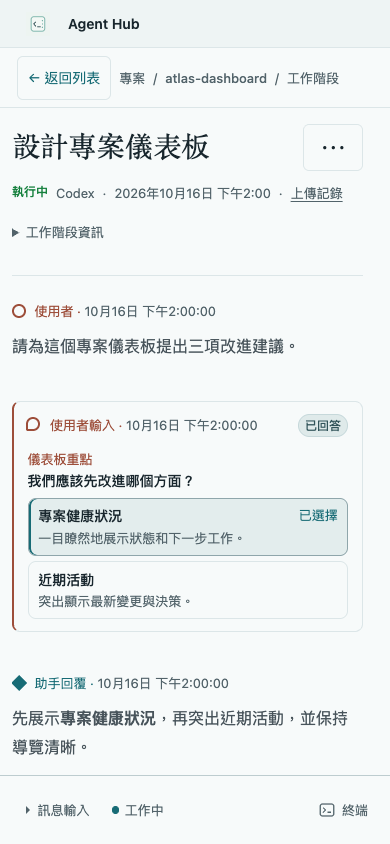
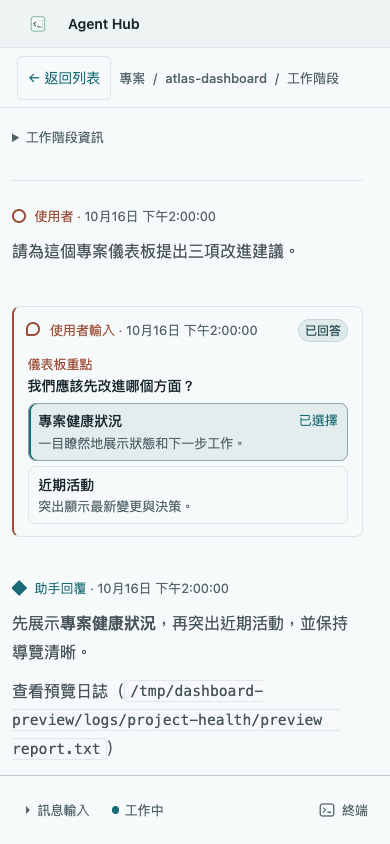
Show blocked Markdown link destinations in the session reader

diff --git a/tests/client/session-reader-components.test.tsx b/tests/client/session-reader-components.test.tsx
@@ -98,6 +98,94 @@ describe("session reader components", () => {
     expect(safeUrlTransform("file:///tmp/secret")).toBe("");
   });
 
+  it.each([null, "plan"] as const)(
+    "preserves blocked Markdown destinations in %s content",
+    (itemType) => {
+      const { container } = render(
+        <MessageItem
+          planOpen
+          item={{
+            kind: "message",
+            id: "blocked-links",
+            ordinal: 1,
+            timestamp: null,
+            role: "assistant",
+            phase: "response",
+            itemType,
+            markdown: [
+              "[**View log**](</tmp/my  log.txt>)",
+              "[View report][report]",
+              "[Empty]()",
+              "[./same](./same)",
+              "[**./formatted**](./formatted)",
+              "[](./unlabeled)",
+              "[Relative](../notes)",
+              "[Blocked](file:///tmp/secret)",
+              "",
+              "[REPORT]: <./my  report.txt>",
+            ].join("\n\n"),
+          }}
+        />,
+      );
+      expect(container.querySelector("a")).toBeNull();
+      expect(
+        [...container.querySelectorAll(".markdown-link-target")].map((node) => node.textContent),
+      ).toEqual([
+        "/tmp/my  log.txt",
+        "./my  report.txt",
+        "./unlabeled",
+        "../notes",
+        "file:///tmp/secret",
+      ]);
+      expect(screen.getByText("View log").parentElement?.textContent).toBe(
+        "View log（/tmp/my  log.txt）",
+      );
+      expect(screen.getByText("View report", { exact: false }).textContent).toBe(
+        "View report（./my  report.txt）",
+      );
+      expect(screen.getByText("Empty").textContent).toBe("Empty");
+      expect(screen.getByText("./same").parentElement?.textContent).toBe("./same");
+      const formattedLabel = screen.getByText("./formatted", { selector: "strong" });
+      expect(formattedLabel.parentElement?.textContent).toBe("./formatted");
+      expect(screen.getByText("./unlabeled").parentElement?.textContent).toBe("./unlabeled");
+    },
+  );
+
+  it("keeps encoded HTTPS URLs and node-scoped artifact links clickable", () => {
+    const pathname = window.location.pathname;
+    window.history.replaceState(null, "", "/nodes/remote/sessions/demo");
+    try {
+      const web = `/web/${"a".repeat(32)}/`;
+      const diff = "/diffs/aaaaaaaa-aaaa-4aaa-8aaa-aaaaaaaaaaaa";
+      render(
+        <MessageItem
+          item={{
+            kind: "message",
+            id: "allowed-links",
+            ordinal: 1,
+            timestamp: null,
+            role: "assistant",
+            phase: "response",
+            itemType: null,
+            markdown: `[HTTPS](<https://example.com/my  log>) [Web](${web}) [Diff](${diff})`,
+          }}
+        />,
+      );
+      for (const [name, href] of [
+        ["HTTPS", "https://example.com/my%20%20log"],
+        ["Web", `/nodes/remote${web}`],
+        ["Diff", `/nodes/remote${diff}`],
+      ]) {
+        const link = screen.getByRole("link", { name });
+        expect(link).toHaveAttribute("href", href);
+        expect(link).toHaveAttribute("target", "_blank");
+        expect(link).toHaveAttribute("rel", "noreferrer noopener");
+      }
+    } finally {
+      window.history.replaceState(null, "", pathname);
+    }
+  });
+
   it("renders single-line double-dollar math inline and multiline math as display", () => {
     render(
       <MessageItem

diff --git a/src/client/components/MessageItem.tsx b/src/client/components/MessageItem.tsx
@@ -4,6 +4,7 @@ import { useTranslation } from "react-i18next";
 import ReactMarkdown, { defaultUrlTransform, type ExtraProps } from "react-markdown";
 import { fromMarkdown } from "mdast-util-from-markdown";
 import { gfmFromMarkdown } from "mdast-util-gfm";
+import { defaultHandlers, type Handlers } from "mdast-util-to-hast";
 import { toString } from "mdast-util-to-string";
 import { gfm } from "micromark-extension-gfm";
 import rehypeKatex from "rehype-katex";
@@ -23,19 +24,47 @@ const PREVIEW_PARSE_OPTIONS = {
   extensions: [gfm()],
   mdastExtensions: [gfmFromMarkdown()],
 };
+// Keep the parsed destination available after ReactMarkdown filters and encodes hrefs.
+const linkTargets = new WeakMap<NonNullable<ExtraProps["node"]>, { url: string; label: string }>();
+const MARKDOWN_HANDLERS = {
+  link(...[state, node]: Parameters<typeof defaultHandlers.link>) {
+    const result = defaultHandlers.link(state, node);
+    linkTargets.set(result, { url: node.url, label: toString(node) });
+    return result;
+  },
+  linkReference(...[state, node]: Parameters<typeof defaultHandlers.linkReference>) {
+    const result = defaultHandlers.linkReference(state, node);
+    const definition = state.definitionById.get(node.identifier.toUpperCase());
+    if (definition && !Array.isArray(result) && result.type === "element") {
+      linkTargets.set(result, { url: definition.url, label: toString(node) });
+    }
+    return result;
+  },
+} satisfies Handlers;
 const MARKDOWN_COMPONENTS = {
-  a: ({ href, children }: ComponentProps<"a">) =>
-    href ? (
-      <a
-        href={/^\/(?:web|diffs)\//.test(href) ? nodePagePath(href) : href}
-        target="_blank"
-        rel="noreferrer noopener"
-      >
-        {children}
-      </a>
+  a: ({ href, children, node }: ComponentProps<"a"> & ExtraProps) => {
+    if (href) {
+      return (
+        <a
+          href={/^\/(?:web|diffs)\//.test(href) ? nodePagePath(href) : href}
+          target="_blank"
+          rel="noreferrer noopener"
+        >
+          {children}
+        </a>
+      );
+    }
+    const target = node && linkTargets.get(node);
+    if (!target?.url || target.label === target.url) return <span>{children}</span>;
+    const address = <code className="markdown-link-target">{target.url}</code>;
+    return target.label ? (
+      <span>
+        {children}（{address}）
+      </span>
     ) : (
-      <span>{children}</span>
-    ),
+      address
+    );
+  },
   img: ({ alt }: ComponentProps<"img">) => (
     <span className="image-placeholder">{t("omittedImage", { alt: alt ? `: ${alt}` : "" })}</span>
   ),
@@ -183,6 +212,7 @@ const MarkdownContent = memo(function MarkdownContent({ markdown }: { markdown: 
   return (
     <ReactMarkdown
       remarkPlugins={REMARK_PLUGINS}
+      remarkRehypeOptions={{ handlers: MARKDOWN_HANDLERS }}
       rehypePlugins={REHYPE_PLUGINS}
       skipHtml
       urlTransform={safeUrlTransform}

diff --git a/src/client/styles/events.css b/src/client/styles/events.css
@@ -60,6 +60,10 @@
   min-width: 0;
   overflow-wrap: anywhere;
 }
+.markdown-link-target {
+  white-space: pre-wrap;
+}
+
 .markdown-scroll-region {
   max-width: 100%;
   margin-block: 1em;
